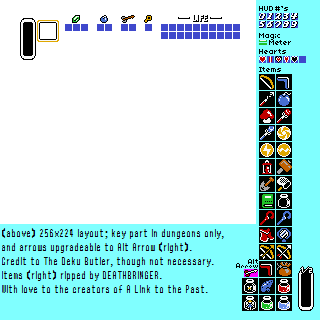
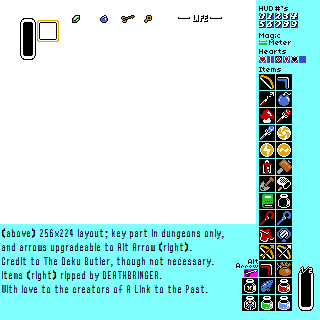
인벤토리오류 수정

Changed region(s): [[0.1875, 0.0625, 0.75, 0.125]]

diff --git a/team-project/Scenes/SceneGame.cpp b/team-project/Scenes/SceneGame.cpp
@@ -451,8 +451,8 @@ void SceneGame::Init()
 	inventoryUI = new InventoryUI();
 	inventoryUI->Init();
 	inventoryUI->sortingLayer = SortingLayers::UI;
+	inventoryUI->sortingOrder = 10;//우선순위높음
 	AddGameObject(inventoryUI);
-
 	AddGameObject(player);
 	AddGameObject(tileMapGame);
 
@@ -526,12 +526,16 @@ void SceneGame::Update(float dt)
 
 void SceneGame::Draw(sf::RenderWindow& window)
 {
-	Scene::Draw(window);
-	// 💡 UI는 기본 뷰로 바꿔서 그리기
-	sf::View prev = window.getView();
 	window.setView(window.getDefaultView());
 	hud->Draw(window);
+	// 💡 UI는 기본 뷰로 바꿔서 그리기
+	if (inventoryUI->IsActive()) 
+	{
+		inventoryUI->Draw(window);
+	}
+	sf::View prev = window.getView();
 	window.setView(prev); // 원래 뷰로 복구
+	Scene::Draw(window);
 	
 
 }

diff --git a/team-project/HUD.cpp b/team-project/HUD.cpp
@@ -83,16 +83,13 @@ void HUD::Draw(sf::RenderWindow& window)
 	window.draw(body);
 	window.draw(rupeeText);  // 루피 텍스트 같이 그리기
 	
-	//int heartsToDraw = (hp + 1) / 2;
+	int heartsToDraw = (hp + 1) / 2;
 	
 	if (showStatus)
 	{
 		window.draw(statusUI);
 	}
-	else
-	{
-		inventoryUI.Draw(window);
-	}
+	
 	for (const auto& heart : heartSprites)
 	{
 		window.draw(heart);
